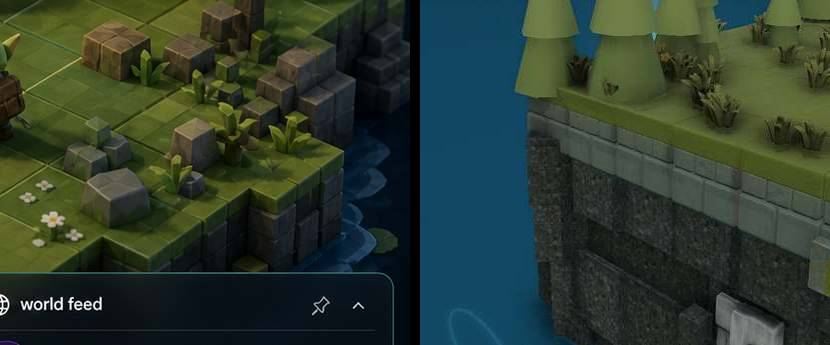
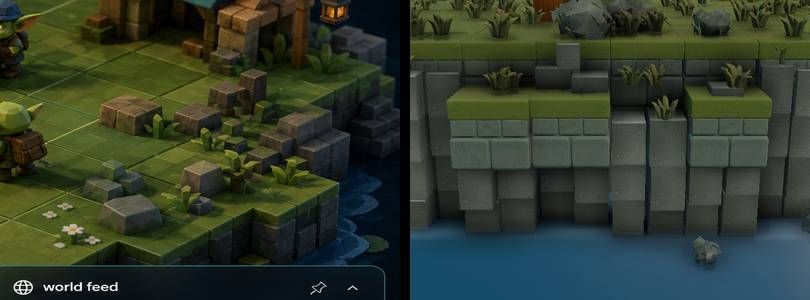
tune the island edge: three courses, grid rhythm, real darks, green over the rim

diff --git a/app/terrain-hd.js b/app/terrain-hd.js
@@ -405,7 +405,7 @@
   // Raised from -3.05. The camera never sees below the waterline (beta .22 to
   // 1.42), so a deep wall was pure cost; a high sea is what makes the edge read
   // as a shallow hem rather than a cliff.
-  const SEA_LEVEL  = -1.90;
+  const SEA_LEVEL  = -1.42;
   // Visible green on the plateau's vertical face before the stone hem starts.
   // The grass slab is 0.87 tall and only its top is green, so without this the
   // edge is dominated by a 0.87-unit dark-green wall rather than by stone.
@@ -425,7 +425,7 @@
         const corner = i===0 || i===n-1;
         // 36% of the perimeter steps the plateau down and out one tile; a
         // sixth of those step again, so the green cascades instead of stopping.
-        const step = corner ? 0 : (rnd()<.36 ? (rnd()<.17?2:1) : 0);
+        const step = corner ? 0 : (rnd()<.58 ? (rnd()<.34?2:1) : 0);
         const stepOut = .30+rnd()*.16;
         const c={
           axis, side, corner, step,
@@ -441,8 +441,9 @@
         // proportion in the reference. One tile-wide block per cell always
         // reads as a wall panel however it is toned or staggered.
         c.cols=[];
-        for(let k=0;k<2;k++){
-          const along=c.along+(k?.25:-.25);
+        const wide=!corner && !step && rnd()<.26;   // one full-tile cube here
+        for(let k=0;k<(wide?1:2);k++){
+          const along=c.along+(wide?0:(k?.25:-.25));
           if(step){
             // Sit directly under the grass tile that stepped out here, so the
             // cascade has something to stand on.
@@ -450,15 +451,15 @@
             const off  = s2?c.stepOut2:c.stepOut;
             const drop = s2?c.stepDrop2:c.stepDrop;
             c.cols.push({ along, top: TOP_Y-drop-GRASS_LIP-rnd()*.10, out: off+.26+rnd()*.12,
-                          r:rnd(), r2:rnd() });
+                          r:rnd(), r2:rnd(), wide });
           } else {
             // Vertical jitter on the tread is what stops neighbouring cubes
             // from being coplanar and hiding each other's top faces.
             // Only a shallow vertical jitter: a deep one exposes the core
             // under the plateau. Depth variety comes from `out`.
-            c.cols.push({ along, top: TOP_Y-GRASS_LIP-rnd()*.16,
-                          out: (corner?.04:.02)+rnd()*(corner?.12:.50),
-                          r:rnd(), r2:rnd() });
+            c.cols.push({ along, top: TOP_Y-GRASS_LIP-rnd()*.09,
+                          out: (corner?.04:.03)+rnd()*(corner?.10:.20),
+                          r:rnd(), r2:rnd(), wide });
           }
         }
         // Kept for the vegetation pass, which seeds plants on the treads.
@@ -656,7 +657,7 @@
     const uw=w/STONE_UV, uh=h/STONE_UV, ud=d/STONE_UV;
     const fz=rect(0,0,uw,uh), fx=rect(0,0,ud,uh), fy=rect(0,0,uw,ud);
     const g=v=>{ const t=Math.min(1.25,tone*v); return new BABYLON.Color4(t,t,t,1); };
-    const top=g(1.24), bot=g(.62), lit=g(1.0), shade=g(.86);
+    const top=g(1.30), bot=g(.42), lit=g(1.0), shade=g(.72);
     const m=BABYLON.MeshBuilder.CreateBox(name,{ width:w, height:h, depth:d,
       faceUV:[fz,fz,fx,fx,fy,fy],
       faceColors:[lit,shade,lit,shade,top,bot], wrap:true },scene);
@@ -696,15 +697,15 @@
     // blotch without the grid.
     const stone=await HD.surface(scene,{ name:'cliff_masonry', file:'stone_soft.png',
       gradeOpts:{ sat:.62, bright:1.00, contrast:1.14, tintR:.97, tintG:1.01, tintB:1.00 },
-      paint:cv=>HD.paintStoneChips(cv,71), normalStrength:1.9, rough:.90, roughVar:.10, ao:.46 });
-    stone.environmentIntensity=.78;
+      paint:cv=>HD.paintStoneChips(cv,71), normalStrength:1.9, rough:.90, roughVar:.10, ao:.72 });
+    stone.environmentIntensity=1.05;
     // Every cliff face is vertical while the key light points down (-.48,-.86,
     // .62), so lights barely reach them: a large hemi lift measured only about
     // +5 levels. A low emissive copy of the albedo lifts the value into the
     // reference's mid blue-grey while keeping the masonry detail, which a flat
     // ambient term would wash out.
     stone.emissiveTexture=stone.albedoTexture;
-    stone.emissiveColor=new BABYLON.Color3(.074,.078,.078);
+    stone.emissiveColor=new BABYLON.Color3(.026,.028,.030);
 
     const E=edgeProfile();
     const TERRACE_TOP=CAP_BOTTOM+.30;
@@ -715,7 +716,7 @@
     const rnd=()=>{ seed=(seed*1664525+1013904223)>>>0; return seed/4294967296; };
     // Mid values, separated block to block. The reference distinguishes cubes
     // by value, not by hue, and nothing in it is close to black.
-    const tone=()=>{ const r=rnd(); return r<.22?.72+rnd()*.08 : r<.74?.83+rnd()*.09 : .94+rnd()*.06; };
+    const tone=()=>{ const r=rnd(); return r<.26?.62+rnd()*.12 : r<.74?.80+rnd()*.11 : .96+rnd()*.08; };
 
     // Deepest inner face reached by any cube, so the core can be pulled back
     // behind them: a core flush with the plateau edge reads as a continuous
@@ -733,7 +734,7 @@
       list.push(m); return m;
     };
 
-    const COURSE=.53;    // three courses fill the ~1.58 unit hem
+    const COURSE=.46;    // cubes read wider than tall, as in the reference
     for(const c of E.cells){
       const outHalf = c.axis==='x' ? WORLD.halfH : WORLD.halfW;
       for(const col of c.cols){
@@ -743,14 +744,14 @@
           const h=last?top-BOT:COURSE*(.92+col.r*.16);
           // Batter: each course steps back slightly, with jitter, and the odd
           // one juts proud so the waterline is not a straight extrusion.
-          const jut=(ci>0 && ((ci*7+col.r2*11)%3)<1)?.10:0;
-          const out=Math.max(.01, col.out-ci*.07+jut+(rnd()-.5)*.10);
+          const jut=(ci>0 && ((ci*7+col.r2*11)%3)<1)?.20:0;
+          const out=Math.max(.01, col.out-ci*.05+jut+(rnd()-.5)*.30);
           // Depth derived from the outward offset, so the inner face always
           // lands the same distance inside the plateau edge: that is what makes
           // the terrace void-proof however far a cube steps out.
           const d=out+1.06+rnd()*.16;
           // Cube is narrower than its 0.5 slot, leaving a seam for SSAO.
-          const w=.42+rnd()*.05;
+          const w=(col.wide?.90:.42)+rnd()*.05;
           put(blocks,'hd_cliff_block',c,col.along+(rnd()-.5)*.03,
             outHalf+out,w,h,d,top,tone());
           top-=h; ci++;
@@ -958,7 +959,9 @@
         spots.push([c.stepOut,(API.state.terrainTopY??TOP_Y)-c.stepDrop+.018,2]);
         if(c.step===2) spots.push([c.stepOut2,(API.state.terrainTopY??TOP_Y)-c.stepDrop2+.018,1]);
       }
-      if(!c.corner && c.rD<.42) spots.push([c.ledges[0].out-.26,c.ledges[0].top+.02,1]);
+      if(!c.corner && c.rD<.72) spots.push([c.ledges[0].out-.24,c.ledges[0].top+.02,2]);
+      // Right on the plateau lip, spilling outward over the drop.
+      if(!c.corner && c.rC<.95) spots.push([-.14-c.rB*.26,(API.state.terrainTopY??TOP_Y)+.018,3]);
       for(const [off,y,count] of spots){
         for(let j=0;j<count;j++){
           const outward=outHalf+off+(rnd()-.5)*.34;
@@ -970,7 +973,7 @@
           t.rotationQuaternion=BABYLON.Quaternion.FromEulerAngles((rnd()-.5)*.22,rnd()*Math.PI*2,0);
           t.position.set(x,y,z); t.isPickable=false; tufts.push(t);
         }
-        if(rnd()<.22){
+        if(rnd()<.34){
           const outward=outHalf+off+(rnd()-.5)*.3;
           const along=c.along+(rnd()-.5)*.5;
           const d=daisyProto.clone('hd_daisy_clump');

diff --git a/handoff/tile_work/patch_cliff15.py b/handoff/tile_work/patch_cliff15.py
@@ -1,0 +1,56 @@
+"""Last pass: more green over the edge, deeper shadow, wider face tone spread.
+
+Measured on the matched crops:
+
+                 ref     ours
+  green fraction .409    .271
+  overall lum    .192    .247
+  10th pct lum   .049    .122     <- ours has no real darks anywhere
+  90th pct lum   .351    .331
+
+So the contrast RANGE is the remaining difference: the reference has genuine
+black in its seams and under its overhangs while ours bottoms out at mid grey,
+which is what still makes the terrace look like poured concrete. And the
+reference is half again as green because grass and plants keep going over the
+rim.
+"""
+import pathlib
+
+P = pathlib.Path('/files/geebr.world/app/terrain-hd.js')
+src = P.read_text()
+orig = src
+
+
+def sub(old, new, n=1):
+    global src
+    c = src.count(old)
+    assert c == n, f'expected {n}, found {c} of: {old[:90]!r}'
+    src = src.replace(old, new)
+
+
+# ------------------------------------------------------------- real darks
+# The emissive lift was flooring the whole surface: nothing could go dark, so
+# every seam and recess sat at mid grey. Cut it right back and recover the mean
+# from ambient instead, which still falls off in the crevices.
+sub("    stone.emissiveColor=new BABYLON.Color3(.074,.078,.078);",
+    "    stone.emissiveColor=new BABYLON.Color3(.026,.028,.030);")
+sub("    stone.environmentIntensity=.78;", "    stone.environmentIntensity=1.05;")
+# Stronger baked AO in the crevices of the albedo itself.
+sub("      paint:cv=>HD.paintStoneChips(cv,71), normalStrength:1.9, rough:.90, roughVar:.10, ao:.46 });",
+    "      paint:cv=>HD.paintStoneChips(cv,71), normalStrength:1.9, rough:.90, roughVar:.10, ao:.72 });")
+# Widen the face tone spread so a cube's shaded side genuinely reads as shadow.
+sub("    const top=g(1.24), bot=g(.62), lit=g(1.0), shade=g(.86);",
+    "    const top=g(1.30), bot=g(.42), lit=g(1.0), shade=g(.72);")
+sub("    const tone=()=>{ const r=rnd(); return r<.22?.72+rnd()*.08 : r<.74?.83+rnd()*.09 : .94+rnd()*.06; };",
+    "    const tone=()=>{ const r=rnd(); return r<.26?.62+rnd()*.12 : r<.74?.80+rnd()*.11 : .96+rnd()*.08; };")
+
+# ------------------------------------------------------------- more green
+# More of the perimeter cascades, and it cascades further.
+sub("        const step = corner ? 0 : (rnd()<.36 ? (rnd()<.17?2:1) : 0);",
+    "        const step = corner ? 0 : (rnd()<.58 ? (rnd()<.34?2:1) : 0);")
+sub("      if(!c.corner && c.rC<.80) spots.push([-.16-c.rB*.22,(API.state.terrainTopY??TOP_Y)+.018,2]);",
+    "      if(!c.corner && c.rC<.95) spots.push([-.14-c.rB*.26,(API.state.terrainTopY??TOP_Y)+.018,3]);")
+
+assert src != orig
+P.write_text(src)
+print('ok')

diff --git a/handoff/tile_work/patch_cliff13.py b/handoff/tile_work/patch_cliff13.py
@@ -1,0 +1,57 @@
+"""Final proportion pass against the side-by-side.
+
+With the hem raised to the grass lip the visible stone became 2.08 units, which
+is four courses - back to a wall. The reference shows about three courses and
+roughly 1.6 units, which was the number in the handoff all along. Raising the
+sea is the cheap way to get it: nothing below the waterline is ever visible.
+
+The side-by-side also shows the reference edge is much greener than ours -
+vegetation spills over the rim in quantity - and that its cube widths vary
+between a half tile and a full tile, where ours are all half.
+"""
+import pathlib
+
+P = pathlib.Path('/files/geebr.world/app/terrain-hd.js')
+src = P.read_text()
+orig = src
+
+
+def sub(old, new, n=1):
+    global src
+    c = src.count(old)
+    assert c == n, f'expected {n}, found {c} of: {old[:90]!r}'
+    src = src.replace(old, new)
+
+
+# ---------------------------------------------------- three courses, not four
+sub("  const SEA_LEVEL  = -1.90;", "  const SEA_LEVEL  = -1.42;")
+
+# ------------------------------------------------------- varied cube widths
+# All-half-tile cubes tile as visibly as all-full-tile ones did. Merging a
+# column pair occasionally gives the reference's mix of sizes.
+sub("""        c.cols=[];
+        for(let k=0;k<2;k++){
+          const along=c.along+(k?.25:-.25);""",
+    """        c.cols=[];
+        const wide=!corner && !step && rnd()<.26;   // one full-tile cube here
+        for(let k=0;k<(wide?1:2);k++){
+          const along=c.along+(wide?0:(k?.25:-.25));""")
+sub("                          r:rnd(), r2:rnd() });\n          } else {",
+    "                          r:rnd(), r2:rnd(), wide });\n          } else {")
+sub("                          out: (corner?.04:.02)+rnd()*(corner?.12:.50),\n"
+    "                          r:rnd(), r2:rnd() });",
+    "                          out: (corner?.04:.02)+rnd()*(corner?.12:.50),\n"
+    "                          r:rnd(), r2:rnd(), wide });")
+sub("          const w=.42+rnd()*.05;",
+    "          const w=(col.wide?.90:.42)+rnd()*.05;")
+
+# --------------------------------------------------------- greener rim
+sub("      if(!c.corner && c.rD<.42) spots.push([c.ledges[0].out-.26,c.ledges[0].top+.02,1]);",
+    "      if(!c.corner && c.rD<.72) spots.push([c.ledges[0].out-.24,c.ledges[0].top+.02,2]);\n"
+    "      // Right on the plateau lip, spilling outward over the drop.\n"
+    "      if(!c.corner && c.rC<.80) spots.push([-.16-c.rB*.22,(API.state.terrainTopY??TOP_Y)+.018,2]);")
+sub("        if(rnd()<.22){", "        if(rnd()<.34){")
+
+assert src != orig
+P.write_text(src)
+print('ok', len(orig), '->', len(src))

diff --git a/handoff/tile_work/patch_cliff14.py b/handoff/tile_work/patch_cliff14.py
@@ -1,0 +1,46 @@
+"""Break the terrace into courses instead of pillars.
+
+The side-by-side after the sea rise shows the height is finally right (~1.6
+visible units) but the edge now reads as a row of tall vertical pillars with
+deep canyons between them, where the reference is a rough GRID: cubes wider
+than tall, horizontal seams as strong as vertical ones.
+
+Cause: the per-column outward spread was 0.02 to 0.52 while the per-course
+variation within a column was only +-0.05. So neighbouring columns differed
+enormously and the courses inside a column stayed flush, which is exactly the
+recipe for pillars. This inverts the two.
+"""
+import pathlib
+
+P = pathlib.Path('/files/geebr.world/app/terrain-hd.js')
+src = P.read_text()
+orig = src
+
+
+def sub(old, new, n=1):
+    global src
+    c = src.count(old)
+    assert c == n, f'expected {n}, found {c} of: {old[:90]!r}'
+    src = src.replace(old, new)
+
+
+# columns close together...
+sub("                          out: (corner?.04:.02)+rnd()*(corner?.12:.50),",
+    "                          out: (corner?.04:.03)+rnd()*(corner?.10:.20),")
+sub("            c.cols.push({ along, top: TOP_Y-GRASS_LIP-rnd()*.16,",
+    "            c.cols.push({ along, top: TOP_Y-GRASS_LIP-rnd()*.09,")
+
+# ...courses far apart.
+sub("          const out=Math.max(.01, col.out-ci*.07+jut+(rnd()-.5)*.10);",
+    "          const out=Math.max(.01, col.out-ci*.05+jut+(rnd()-.5)*.30);")
+sub("          const jut=(ci>0 && ((ci*7+col.r2*11)%3)<1)?.10:0;",
+    "          const jut=(ci>0 && ((ci*7+col.r2*11)%3)<1)?.20:0;")
+
+# Cubes wider than tall, as in the reference.
+sub("    const COURSE=.53;    // three courses fill the ~1.58 unit hem",
+    "    const COURSE=.46;    // cubes read wider than tall, as in the reference")
+
+assert src != orig
+P.write_text(src)
+print('ok')
+""""""
